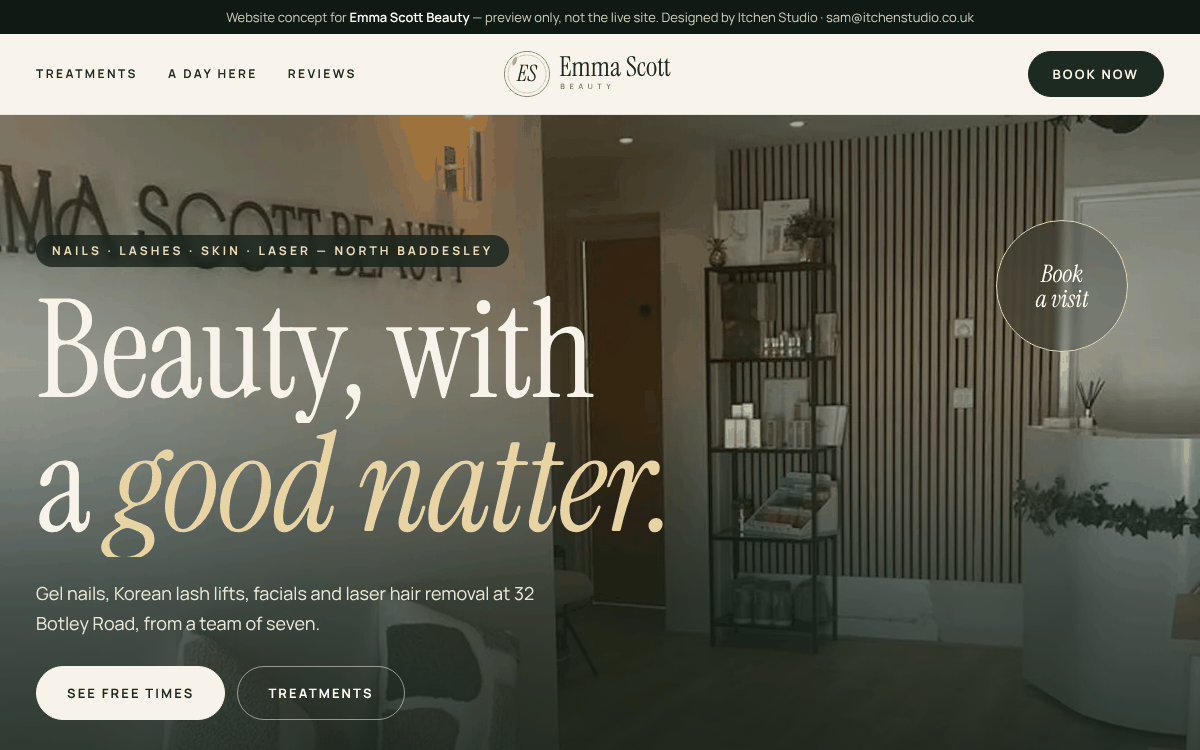
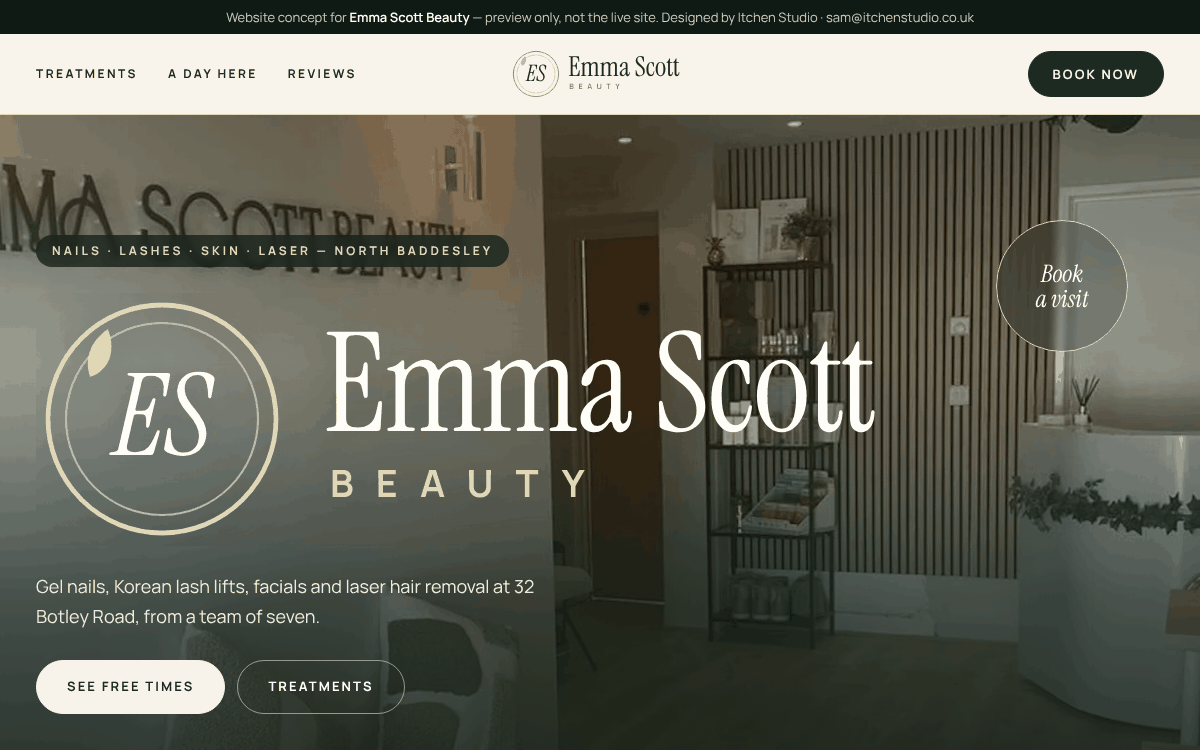
Mock-up: Emma Scott Beauty v2
Claude-Session: https://claude.ai/code/session_01NeQSMEJ3r5fG8fKmi6uEt8

diff --git a/emma-scott-beauty-n3srif/index.html b/emma-scott-beauty-n3srif/index.html
@@ -4,12 +4,11 @@ ART DIRECTION BRIEF — Emma Scott Beauty (North Baddesley)
 Idea: a salon so busy that 2,900 people have reviewed it, and the way it copes is a calm, shared diary. The page lets you watch a day fill up, then lets you book into one.
 Palette: deep sage-green ink #1c2a21, sage #9db39a / soft sage #e6ede1, cream #f7f3ea, white, gold #b08d57 (text-safe gold #7d5f2c on cream).
 Type: Instrument Serif (big, with italics for the warm word) over Manrope for text. Logo drawn from scratch: gold ring monogram "ES" + serif wordmark, because the shop sign type is the only thing to go on.
-Hero: full-bleed reception photo under a green wash, headline set huge at the bottom-left with a gold-ringed "Book" medallion drifting at the right; proof line along the foot. Not a two-column template.
-Signature scroll moment: "An example day" — pinned diary board. A big clock runs 09:00 to 17:00 as you scroll; appointments (nails, lashes and brows, skin, laser) drop into four lanes and tick off. Clearly labelled as an example. Phones get a self-playing version.
-Interactive feature: multi-person booking diary — choose a treatment, pick a day, see each team member's own column of free and taken half-hours, pick a slot, enter details, get a confirmation reference. UI only; nothing is sent.
-Headline shortlist: 1 Nails, lashes, skin and laser. / 2 North Baddesley's beauty team. / 3 Always a good natter. / 4 Beauty, with a good natter. / 5 Seven of us, one diary. / 6 Where Botley Road gets its nails done. / 7 Booked by 2,900 and counting. / 8 Beauty without the hush. / 9 Lashes, nails and a laugh. / 10 A beauty room full of friendly.
-Crossed out: 1 (any salon), 2 (generic claim of "the" team), 7 (review count as headline — not allowed), 6 (cute and unsupported), 8/9/10 (jokey or unsupported), 5 (team of seven is in the notes but not a promise of who you'll meet).
-Pick: "Beauty, with a good natter." — takes its warmth straight from what reviewers keep saying, in five plain words.
+Hero: full-bleed reception photo under a green wash. v2 (Sam's feedback: drop the slogan, show the logo): the h1 IS the Emma Scott Beauty logo lockup, set very large bottom-left (ring monogram + serif wordmark + spaced BEAUTY in gold), accessible name "Emma Scott Beauty". Small descriptive line (what and where) beneath, gold-ringed "Book" medallion at the right, proof line along the foot. Not a two-column template.
+Signature scroll moment: "An example day" - pinned diary board. A big clock runs 09:00 to 17:00 as you scroll; appointments (nails, lashes and brows, skin, laser) drop into four lanes and tick off. Clearly labelled as an example. Phones get a self-playing version.
+Interactive feature: multi-person booking diary - choose a treatment, pick a day, see each team member's own column of free and taken half-hours, pick a slot, enter details, get a confirmation reference. UI only; nothing is sent. Only Emma and Marie are real names (from the lead); other columns are labelled placeholders.
+Headline: none by instruction. Sam's explicit override of the usual headline rule: the hero h1 is the logo, no slogan anywhere ("Beauty, with a good natter." removed; the phrase survives only inside the real Fresha review quote).
+Truth: no prices, no hours, no invented team. Reviews are the two reviewQuotes only.
 -->
 <html lang="en-GB">
 <head>
@@ -65,7 +64,6 @@ h2 i,h1 i{font-style:italic;color:var(--gold-text)}
 .top .r{justify-self:end}
 .top .btn{min-height:46px;padding:0 24px}
 @media (max-width:900px){.top nav{display:none}.top .wrap{grid-template-columns:auto 1fr}}
-@media (max-width:700px){.medal{display:none}}
 
 /* hero */
 .hero{position:relative;min-height:min(92vh,880px);display:flex;align-items:flex-end;color:var(--cream);background:var(--ink);overflow:hidden}
@@ -74,16 +72,18 @@ h2 i,h1 i{font-style:italic;color:var(--gold-text)}
 .hero .bg::after{content:"";position:absolute;inset:0;background:linear-gradient(0deg,#16221af2 0%,#16221ab3 34%,#16221a33 66%,#16221a59 100%)}
 .hero .wrap{position:relative;width:100%;padding-block:120px 36px}
 .hero .lbl{color:#ecdcb4;display:inline-block;background:#16221acc;padding:10px 16px;border-radius:99px;backdrop-filter:blur(4px)}
-.hero h1{font-size:clamp(64px,11.4vw,188px);line-height:.9;margin-top:22px;max-width:9em}
-.hero h1 .ln{display:block;overflow:hidden;padding-bottom:.08em}
-.hero h1 .ln>span{display:inline-block}
+.hero h1{margin-top:26px;line-height:0;--lg:#e8d3a2;--ll:#cfe0cb;color:#fffdf8}
+.hero h1 .herologo{display:block;width:min(900px,100%);height:auto;filter:drop-shadow(0 2px 24px #16221a80)}
+.hero h1 .ln{display:block;overflow:hidden;padding-bottom:.04em}
+.hero h1 .ln>span{display:block}
 .hero h1 i{color:#e8d3a2}
-.hero .lead{font-size:clamp(17px,1.5vw,20px);max-width:30em;margin-top:22px;color:#e8eee4}
+.hero .lead{font-size:clamp(17px,1.5vw,20px);max-width:30em;margin-top:26px;color:#e8eee4}
 .hero .ctas{display:flex;gap:12px;flex-wrap:wrap;margin-top:28px}
 .hero .btn.ghost{color:#fff;border-color:#ffffff80}.hero .btn.ghost:hover{background:#fff;color:var(--ink)}
 .proofline{display:flex;flex-wrap:wrap;gap:8px 32px;margin-top:40px;padding-top:20px;border-top:1px solid #ffffff3d;font-size:15px;color:#e8eee4}
 .proofline b{font:400 28px/1 var(--display);color:#fff;margin-right:8px}
 .medal{position:absolute;right:clamp(16px,6vw,96px);top:clamp(60px,14vh,160px);width:clamp(104px,11vw,150px);aspect-ratio:1;border-radius:50%;border:1px solid #e8d3a2;display:grid;place-items:center;text-align:center;font:italic 400 clamp(20px,2vw,28px)/1.05 var(--display);color:#fff;text-decoration:none;backdrop-filter:blur(3px);background:#16221a40;transition:background-color .3s,color .3s}
+@media (max-width:700px){.medal{display:none}}
 .medal:hover{background:#e8d3a2;color:var(--ink)}
 html.motion:not(.ready) .hero h1 .ln>span{transform:translateY(105%)}
 html.motion:not(.ready) [data-intro]{opacity:0}
@@ -246,20 +246,20 @@ html:not(.motion) .playhead{display:none}
 <div class="concept" role="note">Website concept for <b>Emma Scott Beauty</b> — preview only, not the live site. Designed by Itchen Studio · sam@itchenstudio.co.uk</div>
 
 <svg width="0" height="0" style="position:absolute" aria-hidden="true" focusable="false">
-  <symbol id="logo" viewBox="0 0 330 84">
-    <circle cx="42" cy="42" r="38" fill="none" stroke="#b08d57" stroke-width="1.6"/>
+  <symbol id="logo" viewBox="0 0 300 84">
+    <circle cx="42" cy="42" r="38" fill="none" stroke="var(--lg,#b08d57)" stroke-width="1.6"/>
     <circle cx="42" cy="42" r="32" fill="none" stroke="currentColor" stroke-width=".7" opacity=".5"/>
     <text x="42" y="54" text-anchor="middle" font-family="Instrument Serif, Georgia, serif" font-style="italic" font-size="38" fill="currentColor">ES</text>
-    <path d="M24 12c-6 4-8 10-6 16 6-2 9-8 6-16z" fill="#9db39a" opacity=".9"/>
+    <path d="M24 12c-6 4-8 10-6 16 6-2 9-8 6-16z" fill="var(--ll,#9db39a)" opacity=".9"/>
     <text x="96" y="46" font-family="Instrument Serif, Georgia, serif" font-size="46" fill="currentColor">Emma Scott</text>
-    <text x="98" y="68" font-family="Manrope, sans-serif" font-weight="700" font-size="12.5" letter-spacing="7.4" fill="#b08d57">BEAUTY</text>
+    <text x="98" y="68" font-family="Manrope, sans-serif" font-weight="700" font-size="12.5" letter-spacing="7.4" fill="var(--lg,#b08d57)">BEAUTY</text>
   </symbol>
 </svg>
 
 <header class="top">
   <div class="wrap">
     <nav aria-label="Main"><a href="#treatments">Treatments</a><a href="#day">A day here</a><a href="#reviews">Reviews</a></nav>
-    <a class="logo" href="#top" aria-label="Emma Scott Beauty, home"><svg viewBox="0 0 330 84" aria-hidden="true"><use href="#logo"/></svg></a>
+    <a class="logo" href="#top" aria-label="Emma Scott Beauty, home"><svg viewBox="0 0 300 84" aria-hidden="true"><use href="#logo"/></svg></a>
     <div class="r"><a class="btn" href="#book">Book now</a></div>
   </div>
 </header>
@@ -270,7 +270,7 @@ html:not(.motion) .playhead{display:none}
   <a class="medal" href="#book" data-intro>Book<br>a visit</a>
   <div class="wrap">
     <p class="lbl" data-intro>Nails · Lashes · Skin · Laser — North Baddesley</p>
-    <h1 id="h1"><span class="ln"><span>Beauty, with</span></span><span class="ln"><span>a <i>good natter.</i></span></span></h1>
+    <h1 id="h1"><span class="ln"><span><svg class="herologo" viewBox="0 0 300 84" role="img" aria-label="Emma Scott Beauty"><use href="#logo"/></svg></span></span></h1>
     <p class="lead" data-intro>Gel nails, Korean lash lifts, facials and laser hair removal at 32 Botley Road, from a team of seven.</p>
     <div class="ctas" data-intro><a class="btn light" href="#book">See free times</a><a class="btn ghost" href="#treatments">Treatments</a></div>
     <p class="proofline" data-intro><span><b>5.0</b>on Fresha</span><span><b>2,900+</b>reviews</span><span><b>7</b>in the team</span></p>
@@ -327,7 +327,7 @@ html:not(.motion) .playhead{display:none}
           <div class="mtabs" id="mtabs" role="group" aria-label="Team member"></div>
           <div class="cols" id="cols"></div>
           <div class="legend"><span><i></i>Free</span><span><i class="t"></i>Taken</span><span><i class="s"></i>Your choice</span></div>
-          <p class="booknote">Example team and times. Your real names, photos and working days come from the booking system.</p>
+          <p class="booknote">Example team and times. Only Emma and Marie are real names; the other columns are placeholders for the rest of the team. Real names, photos and working days come from the booking system.</p>
         </div>
         <div id="bk-step2" hidden>
           <span class="step-l">4 · Your details</span>
@@ -361,13 +361,13 @@ html:not(.motion) .playhead{display:none}
   <div class="rv-wrap">
     <div class="rv-row" data-speed="0.5">
       <figure class="rv"><span class="st" aria-hidden="true">★★★★★</span><blockquote>“Always a good natter. All the girls are so friendly and welcoming.”</blockquote><cite>Fresha · Oct 2026</cite></figure>
-      <figure class="rv dk"><span class="st" aria-hidden="true">★★★★★</span><blockquote>“Marie is always incredible — amazing customer service.”</blockquote><cite>Fresha · Oct 2026</cite></figure>
+      <figure class="rv dk"><span class="st" aria-hidden="true">★★★★★</span><blockquote>“Marie is always incredible - amazing customer service.”</blockquote><cite>Fresha · Oct 2026</cite></figure>
       <figure class="rv"><span class="st" aria-hidden="true">★★★★★</span><blockquote>“Always a good natter. All the girls are so friendly and welcoming.”</blockquote><cite>Fresha · Oct 2026</cite></figure>
-      <figure class="rv dk"><span class="st" aria-hidden="true">★★★★★</span><blockquote>“Marie is always incredible — amazing customer service.”</blockquote><cite>Fresha · Oct 2026</cite></figure>
+      <figure class="rv dk"><span class="st" aria-hidden="true">★★★★★</span><blockquote>“Marie is always incredible - amazing customer service.”</blockquote><cite>Fresha · Oct 2026</cite></figure>
       <figure class="rv" aria-hidden="true"><span class="st">★★★★★</span><blockquote>“Always a good natter. All the girls are so friendly and welcoming.”</blockquote><cite>Fresha · Oct 2026</cite></figure>
-      <figure class="rv dk" aria-hidden="true"><span class="st">★★★★★</span><blockquote>“Marie is always incredible — amazing customer service.”</blockquote><cite>Fresha · Oct 2026</cite></figure>
+      <figure class="rv dk" aria-hidden="true"><span class="st">★★★★★</span><blockquote>“Marie is always incredible - amazing customer service.”</blockquote><cite>Fresha · Oct 2026</cite></figure>
       <figure class="rv" aria-hidden="true"><span class="st">★★★★★</span><blockquote>“Always a good natter. All the girls are so friendly and welcoming.”</blockquote><cite>Fresha · Oct 2026</cite></figure>
-      <figure class="rv dk" aria-hidden="true"><span class="st">★★★★★</span><blockquote>“Marie is always incredible — amazing customer service.”</blockquote><cite>Fresha · Oct 2026</cite></figure>
+      <figure class="rv dk" aria-hidden="true"><span class="st">★★★★★</span><blockquote>“Marie is always incredible - amazing customer service.”</blockquote><cite>Fresha · Oct 2026</cite></figure>
     </div>
   </div>
 </section>
@@ -391,7 +391,7 @@ html:not(.motion) .playhead{display:none}
       <div><p class="lbl">Find us</p><p>Emma Scott Beauty<br>32 Botley Road<br>North Baddesley<br>SO52 9DQ</p></div>
       <div><p class="lbl">Book</p><p>Choose a time in the diary above, or book through the salon's Fresha page.</p><p><a class="btn light" href="#book" style="margin-top:6px">Book now</a></p></div>
     </div>
-    <a class="logo" href="#top" aria-label="Emma Scott Beauty, back to top"><svg viewBox="0 0 330 84" aria-hidden="true"><use href="#logo"/></svg></a>
+    <a class="logo" href="#top" aria-label="Emma Scott Beauty, back to top"><svg viewBox="0 0 300 84" aria-hidden="true"><use href="#logo"/></svg></a>
     <div class="base"><span>© 2026 Emma Scott Beauty</span><span>Concept by <a href="https://itchenstudio.co.uk">Itchen Studio</a></span></div>
   </div>
 </footer>
